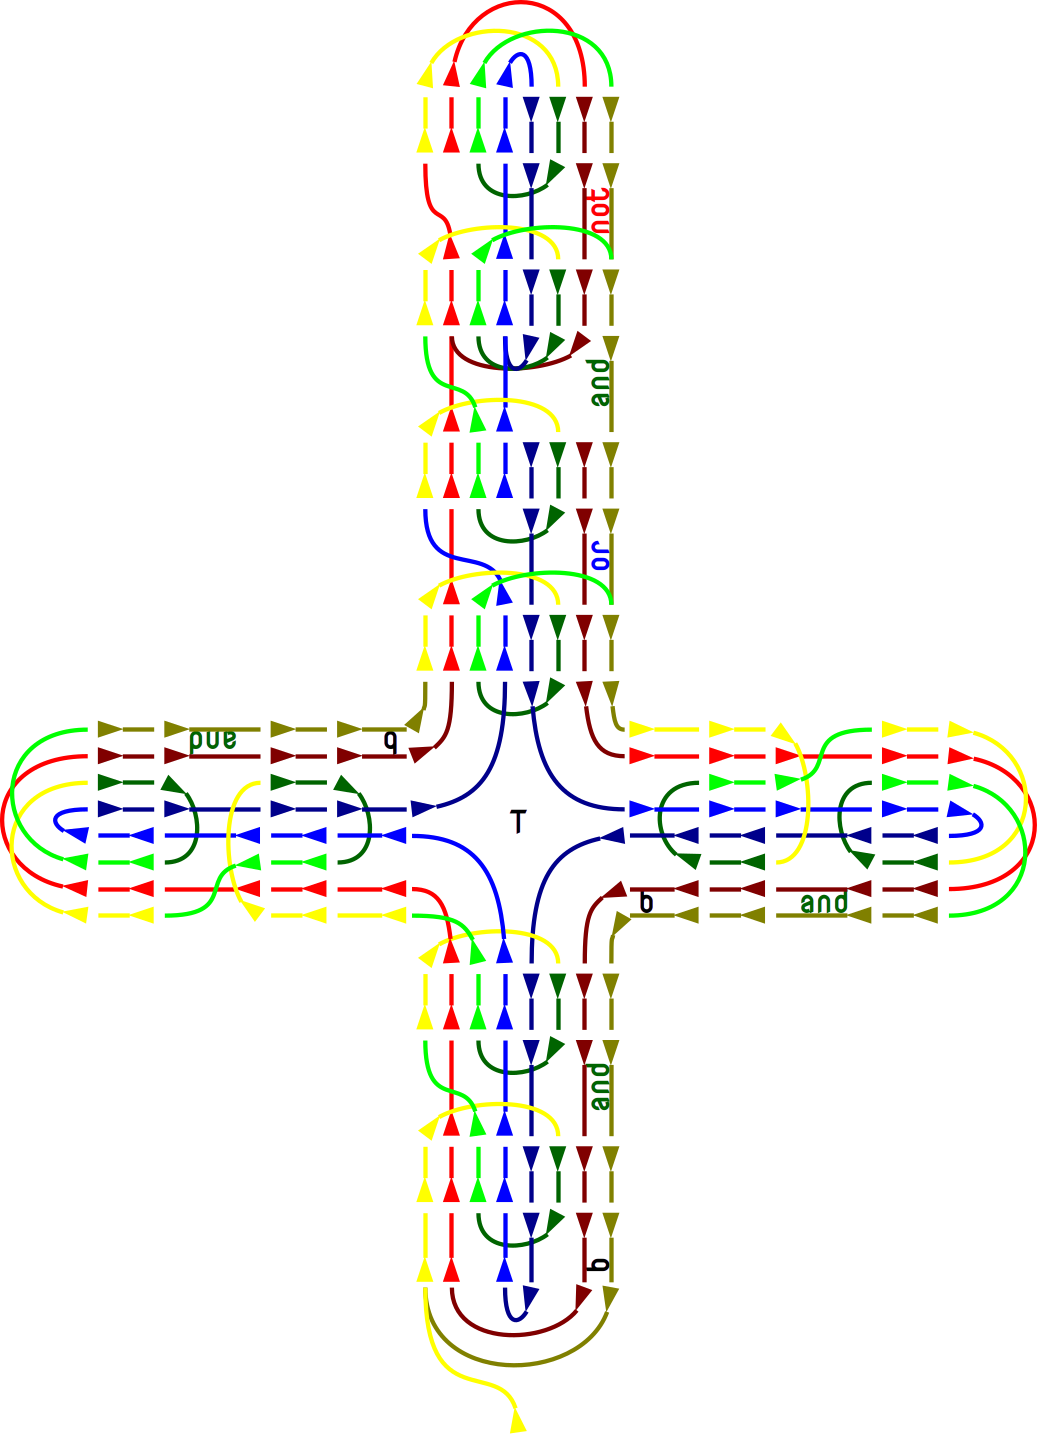
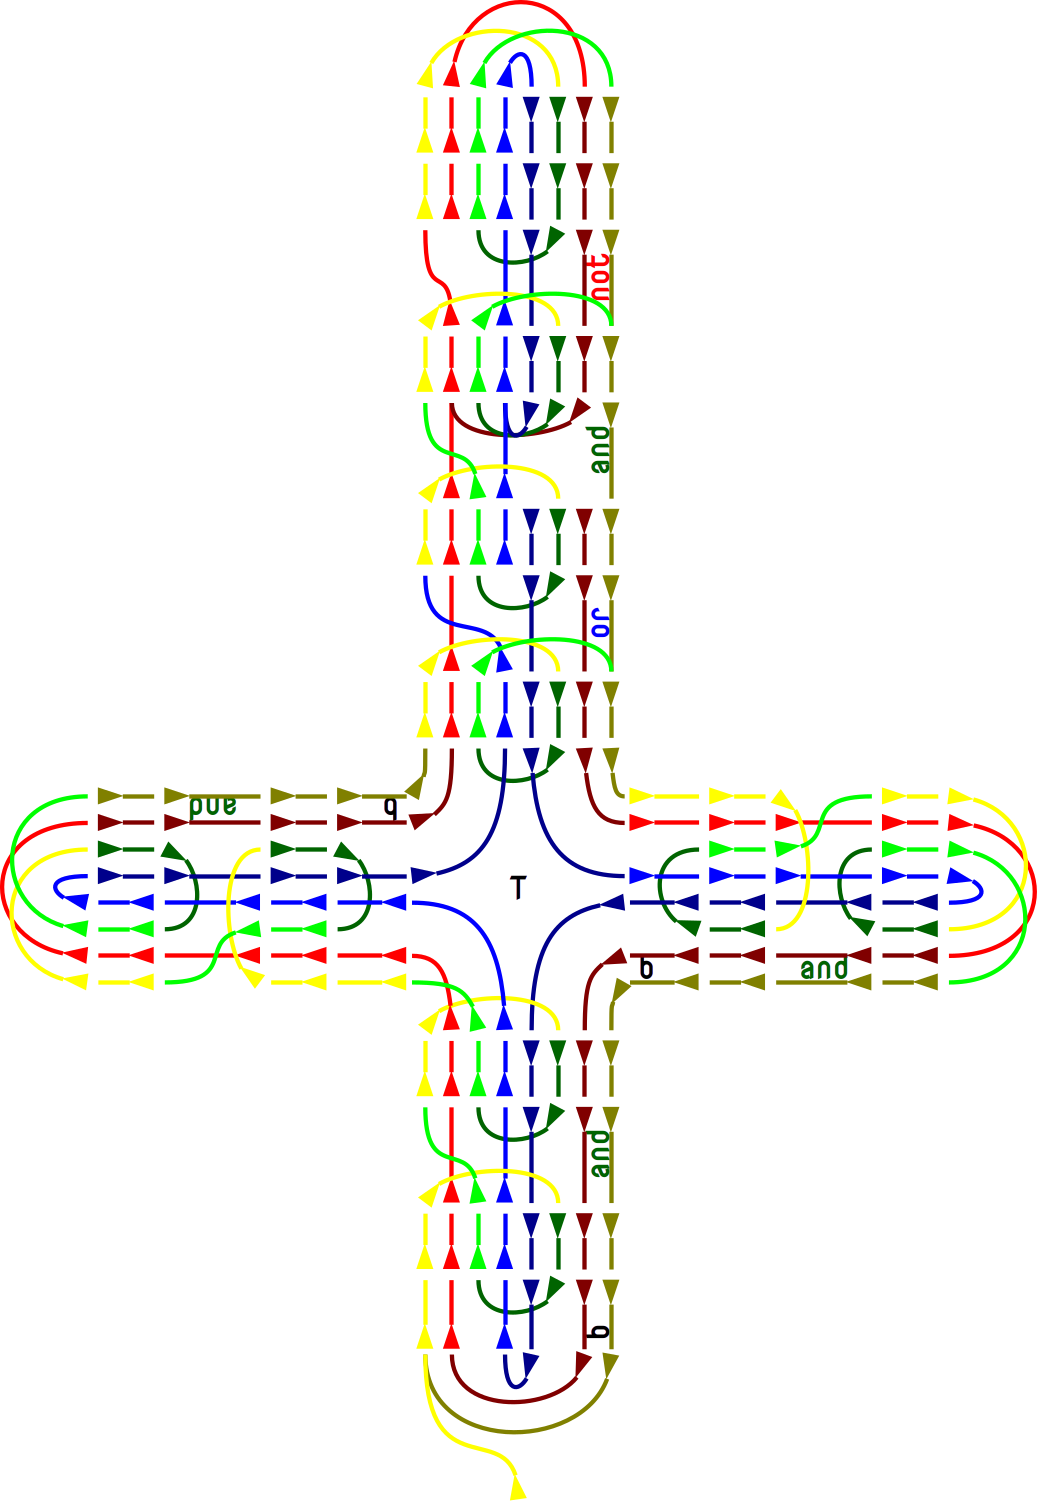
sync

Changed region(s): [[0.0, 0.0, 1.0, 0.9819]]

diff --git a/us.c b/us.c
@@ -27,34 +27,30 @@
 // }
 #include <stdio.h>
 #include <unistd.h>
+#define A(...)
 N(print) {
   if (ρ == 3 && δ == 1)
     printf("%s", ο[ω + AW].cs), usleep(20000);
   m(α, ω, ο, ρ, δ, σ);
 }
+N(ws);
+  //  S -> a_f.Fe.EAb_f.Fe.EB
+  //                            .
 N(sword2) {
-  D(B(T(b) Ta(print, "(") T(o)), //
-    B(T(b) Ta(print, ")") T(o)));
-  D(B(T(b) Ta(print, "[") T(o)), //
-    B(T(b) Ta(print, "]") T(o)));
+  D(B(T(b) Ta(print, "f") T(o)), B(T(b) Ta(print, "F") T(o)));
+  D(B(T(b) Ta(print, "e") T(o)), B(T(b) Ta(print, "E") T(o))); //
   toti(α, ω, ο, ρ, δ, σ);
-}
+} //                            _
 N(sword1) {
-  D(B(T(b) Ta(print, "{") T(o)), //
-    B(T(b) Ta(print, "}") T(o)));
+  D(B(T(b) Ta(print, "a") T(o)), B(T(b) Ta(print, "A") T(o)));
+  D(B(T(b) Ta(print, "b") T(o)), B(T(b) Ta(print, "B") T(o)));
   toti(α, ω, ο, ρ, δ, σ);
-}
+} //                         \nS ->
 int main() {
   long α, ω;
   text_t ο[α = 1024];
   long ρ = 3, δ = 1, σ = 0;
-  ω = B(T(b)                 //
-        Ta(print, "\nS -> ") //
-        T(sword1)            //
-        Ta(print, "M1")      //
-        T(sword2)            //
-        Ta(print, "M2")      //
-        T(o));
+  ω = B(T(b) Ta(print, "\nS -> ") T(sword1) Ta(print, "_") T(sword2) Ta(print, ".") T(o));
   ο[ω - 1].q = ω;
   ο[ω + 1].q = 1;
   BConnect(ω, ω, 1);
